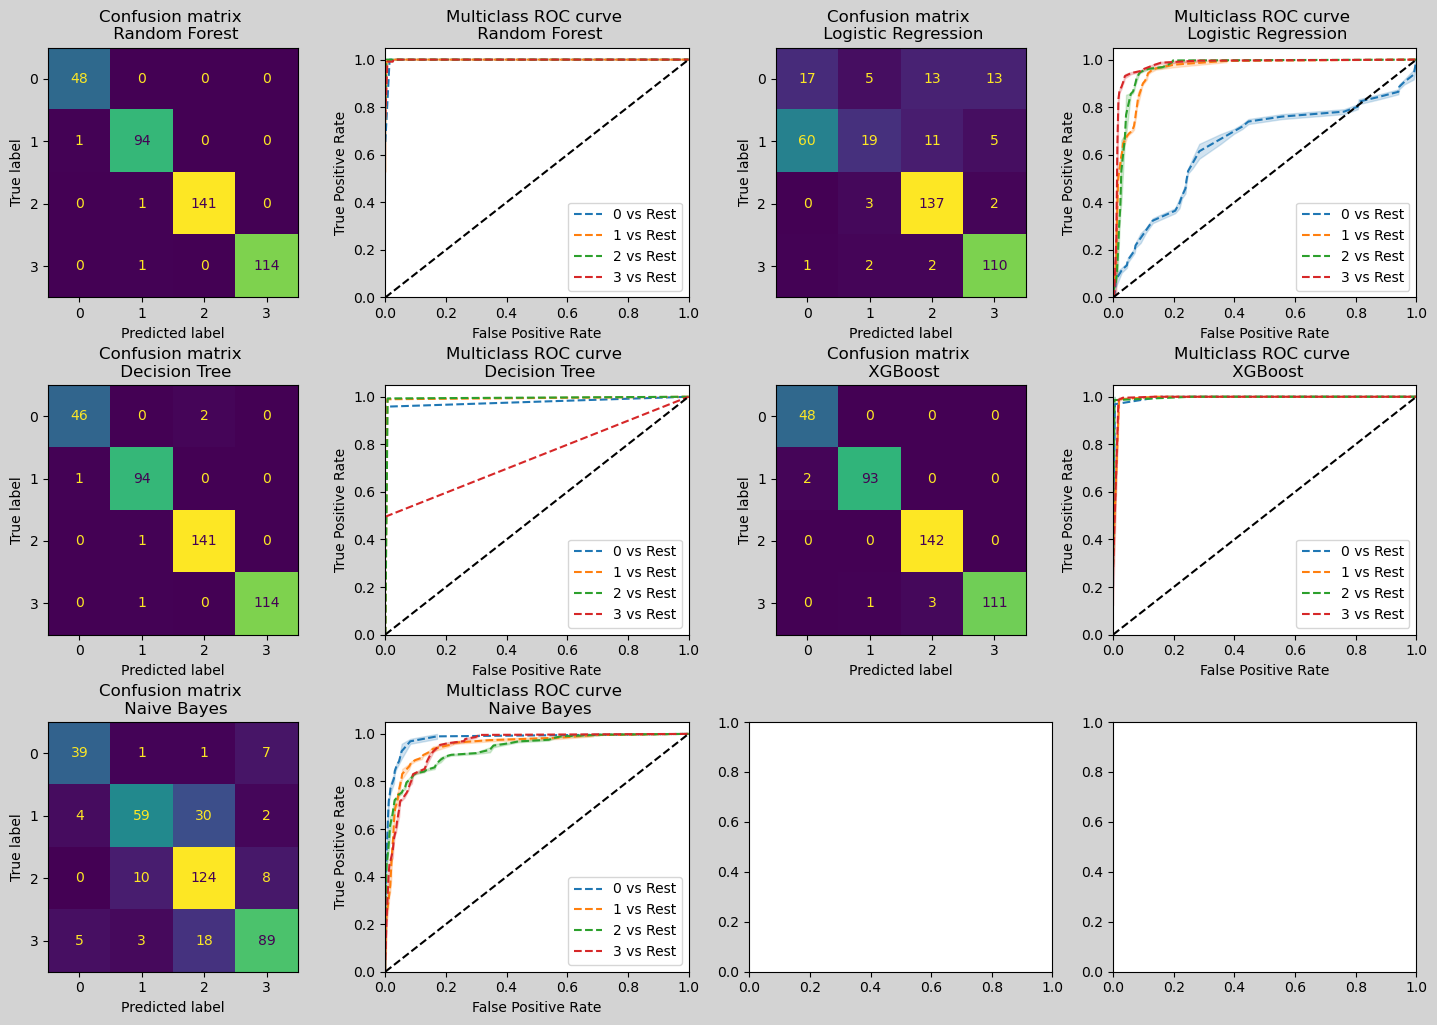
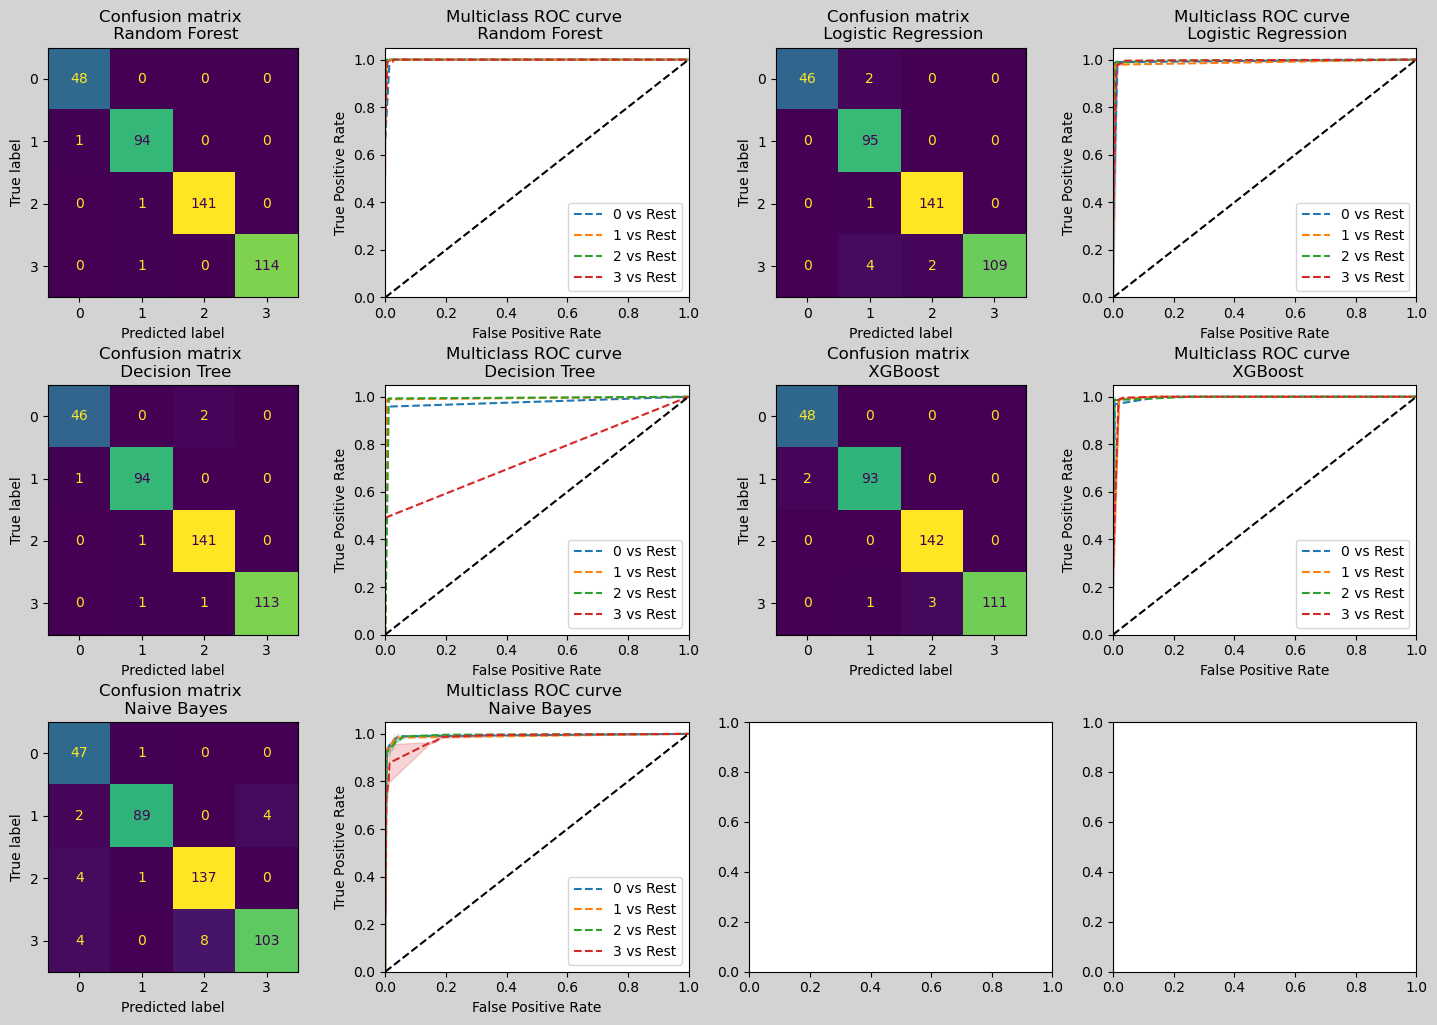
update app_utils

diff --git a/src/app_utils/processor.py b/src/app_utils/processor.py
@@ -1,0 +1,90 @@
+import pandas as pd   
+import numpy as np  
+import pickle
+from sklearn.preprocessing import OneHotEncoder, OrdinalEncoder
+from sklearn.base import BaseEstimator, TransformerMixin
+
+def get_processor():
+
+    """
+    Função para realizar a adequação dos dados preenchidos pela aplicação web
+
+    Utilizando as técnicas de Ordinal e One Hot encoder
+
+    """
+
+    ordinal_encoder_orders = { "Sex": ["Masculino", "Feminino"],
+    
+                              "Marital status": ["Solteiro(a)", "Outros"],
+                              
+                              "Education": ["Nenhuma / Fundamental", "Ensino Médio", 
+                                            "Gradução", "Pós-Graduação"],
+
+                              "Occupation": ["Desempregado / Autônomos", "Servidores",
+                                             "Oficiais / Autoridades / Administradores"],
+
+                              "Settlement Size": ["< 100.000 habitantes", "entre 100.000 e 500.000 habitantes",
+                                            "> 500.000 habitantes"]
+    }
+
+    preprocessor = OrdinalEncoder(to_encoder)
+
+
+class OrdinalFeatureEncoder(BaseEstimator, TransformerMixin):
+    '''
+    A transformer class for ordinal encoding specified categorical features and retaining feature names.
+
+    Attributes:
+        to_encode (dict): A dictionary where keys are column names and values are lists representing the desired category orders.
+
+    Methods:
+        fit(X, y=None): Fit the transformer to the data.
+        transform(X): Transform the input DataFrame by ordinal encoding specified columns and retaining feature names.
+    '''
+    def __init__(self, to_encode):
+        '''
+        Initialize the OrdinalFeatureEncoder transformer.
+
+        Args:
+            to_encode (dict): A dictionary where keys are column names and values are lists representing the desired category orders.
+        '''
+        self.to_encode = to_encode
+        self.encoder = OrdinalEncoder(dtype=np.int8, 
+                                      categories=[to_encode[col] for col in to_encode])
+
+    def fit(self, X, y=None):
+        '''
+        Fit the transformer to the data.
+
+        Args:
+            X (pandas.DataFrame): Input features.
+            y (array-like, default=None): Target labels. Ignored.
+
+        Returns:
+            self: Returns an instance of self.
+        '''
+        self.encoder.fit(X[list(self.to_encode.keys())])
+        return self
+
+    def transform(self, X):
+        '''
+        Transform the input DataFrame by ordinal encoding specified columns and retaining feature names.
+
+        Args:
+            X (pandas.DataFrame): Input features.
+
+        Returns:
+            pandas.DataFrame: Transformed DataFrame after ordinal encoding specified columns and retaining feature names.
+        '''
+        # Ordinal encode the columns.
+        X_ordinal = self.encoder.transform(X[list(self.to_encode.keys())])
+        
+        # Create a dataframe for the ordinal encoded data.
+        ordinal_encoded_df = pd.DataFrame(X_ordinal,
+                                          columns=self.encoder.get_feature_names_out(list(self.to_encode.keys())))
+        
+        # Reset for mapping and concatenated constructing a final dataframe of features.
+        X_reset = X.reset_index(drop=True)
+        
+        return pd.concat([X_reset.drop(columns=list(self.to_encode.keys())), ordinal_encoded_df], axis=1)
+    

diff --git a/src/model_train.py b/src/model_train.py
@@ -7,7 +7,7 @@ import plotly.express as px
 from sklearn.model_selection import train_test_split, cross_val_score
 from sklearn.metrics import roc_curve, confusion_matrix, auc
 from sklearn.metrics import RocCurveDisplay, ConfusionMatrixDisplay
-from sklearn.preprocessing import label_binarize
+from sklearn.preprocessing import label_binarize, StandardScaler
 
 import time
 
@@ -21,7 +21,7 @@ filterwarnings('ignore')
 
 #Função que avalia a performance dos modelos
 def evaluation_model_multclass_classifier(models, X, y):
-
+    scaler = StandardScaler()
     # try:
     #Criando os arquivos para os resultados
     acc_models = {}
@@ -41,7 +41,11 @@ def evaluation_model_multclass_classifier(models, X, y):
 
     #Dividindo os dados de maneira equilibrada entre treino e teste
     x_train, x_test, y_train, y_test = train_test_split(X, y, test_size=0.2, random_state=0)
+    
+    X = scaler.fit_transform(X)
 
+    x_train = scaler.fit_transform(x_train)
+    x_test = scaler.transform(x_test)
     classes = np.unique(y)
     y_test_binarized = label_binarize(y_test, classes=classes )
 

diff --git a/src/app_utils/model_trainer.py b/src/app_utils/model_trainer.py
@@ -1,0 +1,26 @@
+import pandas as pd  
+import numpy as np 
+import pickle
+from xgboost import XGBClassifier
+
+def get_model():
+
+    """
+    Função utilizada para gerar o objeto .pkl do modelo treinado em artifacts
+
+    Esta função será automatizada para treinar o modelo conforme seja 
+    adicionado dados ao conjunto.
+    
+    """
+
+    df = pd.read_csv("/home/edmurcn/Documentos/MeusProjetos/Customer-Clustering/data/dados_label.csv", header=0)
+
+    X = df.drop(["Label"], axis=1).to_numpy()
+    y = df["Label"].to_numpy()
+
+    XGB = XGBClassifier(random_state=0)
+
+    model = XGB.fit(X, y)
+
+    pickle.dump(model, open("/home/edmurcn/Documentos/MeusProjetos/Customer-Clustering/artifacts/model.pkl", "wb"))
+

diff --git a/src/app_utils/ordinal_encoder.py b/src/app_utils/ordinal_encoder.py
@@ -1,0 +1,7 @@
+from sklearn.preprocessing import OrdinalEncoder
+
+class OrdinalEncoderTransform():
+
+    #Classe construída para realizar a codificar as colunas escolhidas de maneira ordinal
+    
+    def __init__(self):
